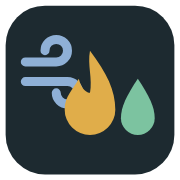
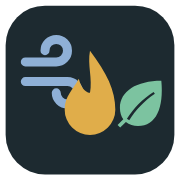
Aktualizacja aplikacji z 2026-10-16 13:54:56

Changed region(s): [[0.6389, 0.4444, 0.9167, 0.75], [0.7222, 0.4722, 0.75, 0.5]]

diff --git a/pp/js/icons.js b/pp/js/icons.js
@@ -38,8 +38,8 @@ window.ppIcon = function (n, size) {
 /* Dosha symbols from the logo: wind (Vata), flame (Pitta), drop (Kapha). Colour follows the text (currentColor). */
 window.PP_DOSHA_ICONS = {
   V: '<g fill="none" stroke="currentColor" stroke-width="2" stroke-linecap="round"><path d="M3 9h11a3 3 0 1 0-3-3"/><path d="M3 14h15a3 3 0 1 1-3 3"/><path d="M3 19h6"/></g>',
-  P: '<path fill="currentColor" d="M12 2.5c3.5 4 6 7 6 11a6 6 0 0 1-12 0c0-2.5 1.2-4.5 2.5-6 .4 2 1.5 3 2.5 3 1-2.5-.5-5 1-8Z"/>',
-  K: '<path fill="currentColor" d="M12 3c4 5 6.5 8.7 6.5 11.5a6.5 6.5 0 0 1-13 0C5.5 11.7 8 8 12 3Z"/>'
+  P: '<path fill="currentColor" d="M12 1.5c4.2 4.6 7.5 8.4 7.5 13a7.5 7.5 0 0 1-15 0c0-3 1.4-5.4 3-7.2.5 2.4 1.8 3.6 3 3.6 1.2-3-.6-6 1.5-9.4Z"/>',
+  K: '<path fill="currentColor" fill-rule="evenodd" d="M20.5 3.5C11 3.5 4.5 7.5 4.5 14c0 1.7.5 3.2 1.3 4.4L3.6 20.6l1 1 2.2-2.2c1.3 1 2.9 1.6 4.7 1.6 7 0 10-7 9-17.5ZM7.2 18.2c2.6-4.2 6-7.6 10.3-10.4l.5.7c-4.2 2.9-7.4 6.2-9.9 10.3Z"/>'
 };
 window.ppDoshaIcon = function (d, size) {
   var p = window.PP_DOSHA_ICONS[d]; if (!p) return '';
